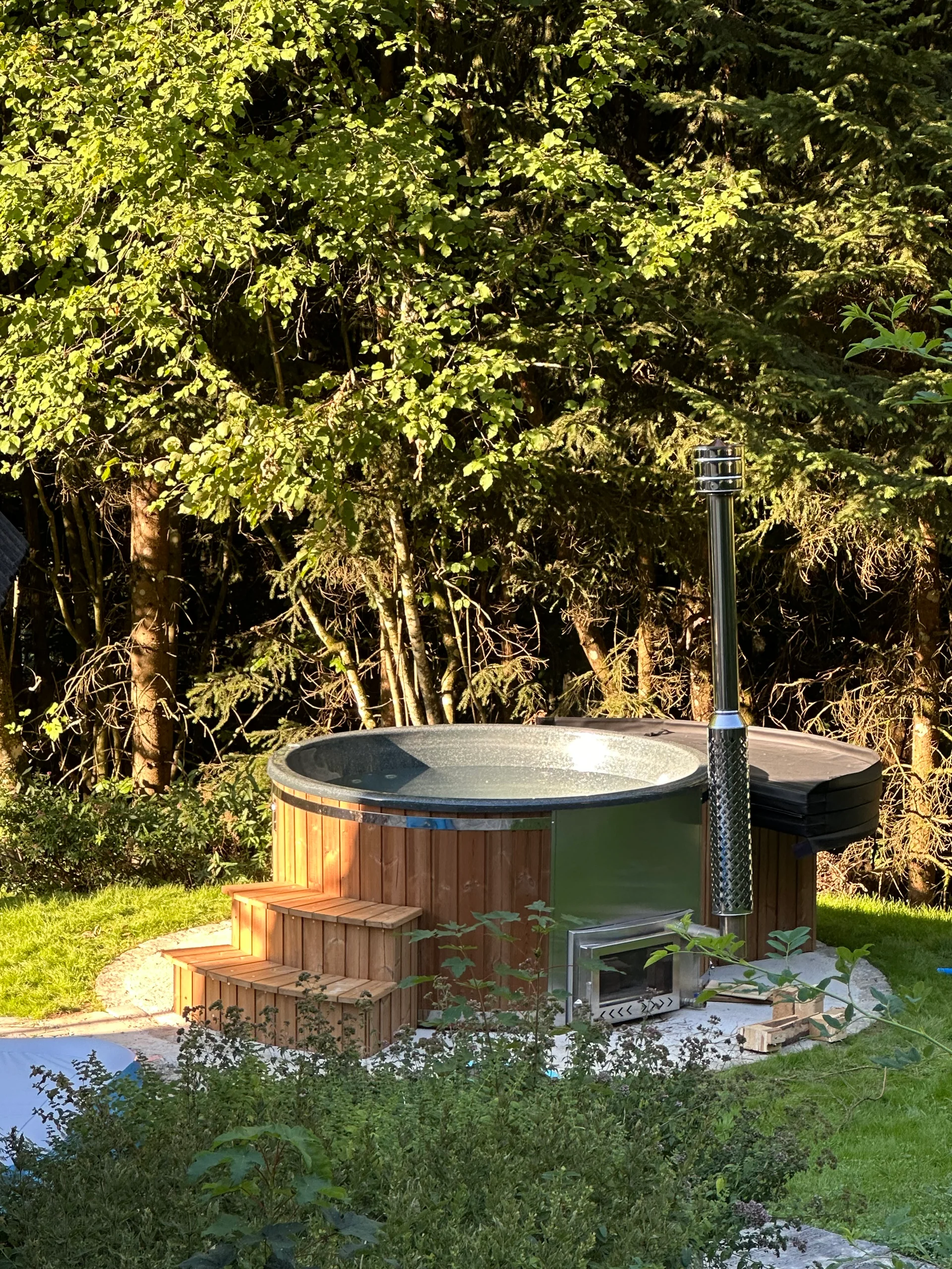
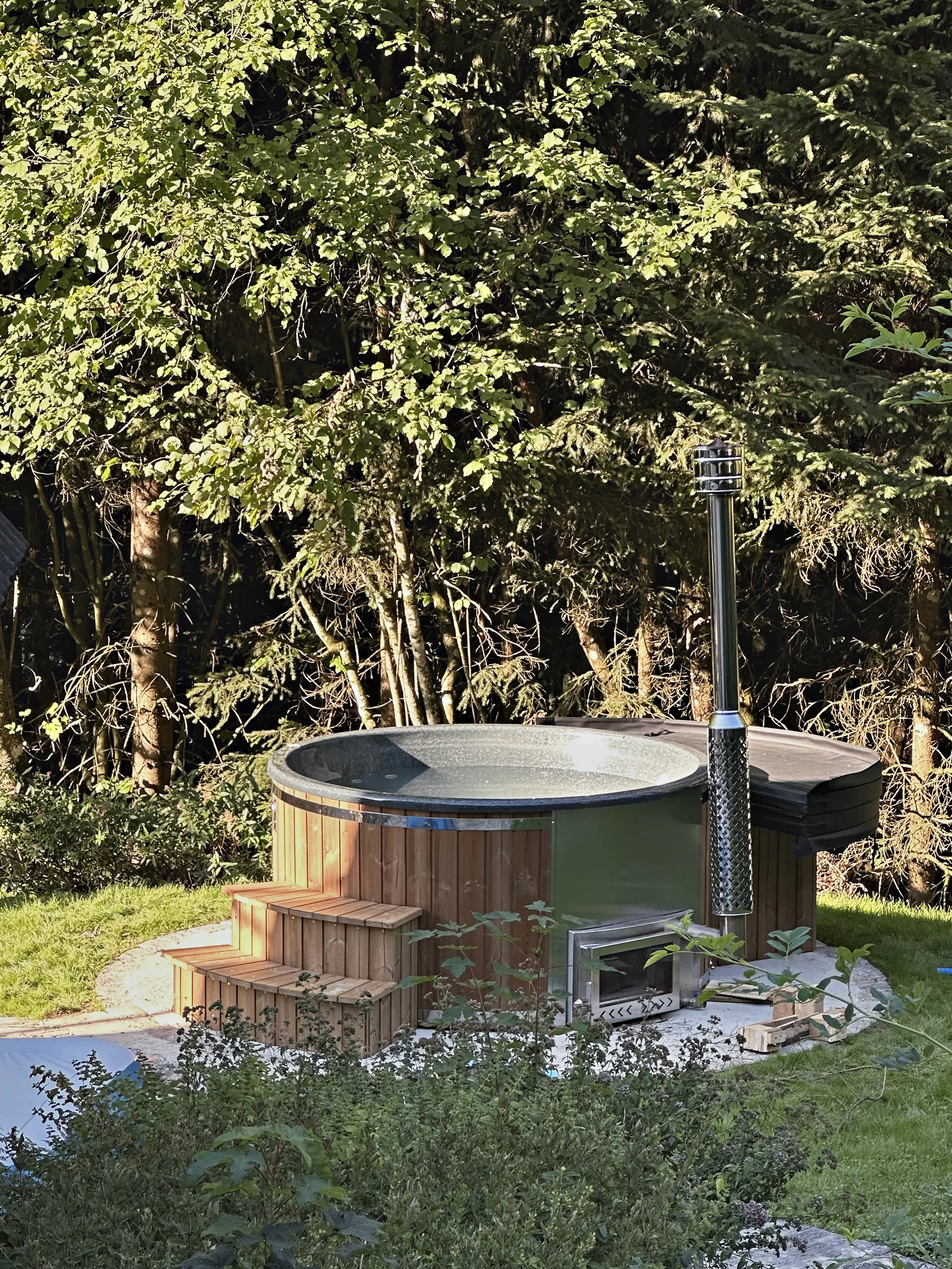
HAUS28-Galerie: HotTub-Fotos, Küche, schönste Bilder nach vorn
- Zwei neue HotTub-Fotos (Garten mit Ofen, Whirlpool vor dem A-Frame); sie
  und das bisherige img_5694 sind an den Look der Profi-Fotos angeglichen
  (Lichter gedämpft, Schatten offen, wärmer, Grün ruhiger). Originale liegen
  unbearbeitet in FOTOS/HAUS28/unbearbeitet (nicht im Repo).
- Erster Blick: A-Frame-Front, HotTub, Wohnbereich, Schlafzimmer 3 unter dem
  Dreiecksfenster, Küche. Die Küche fehlte bisher ganz.
- Aus dem Fotografen-Satz ergänzt: Wohn-/Essbereich, Esstisch, Leseecke,
  gedeckter Terrassentisch, Feuerschale. Raus: zweites Waldbild, Schlafzimmer 1
  doppelt, Tischdeko, Nachttisch. 21 → 25 Fotos.
- Alt-Texte korrigiert (ein Schlafzimmer hieß „Essbereich", die Gartenseite
  „Innenbereich Detail"), Schlafzimmer 1–4 wie auf der Seite, englisch nachgezogen.

diff --git a/data/properties.ts b/data/properties.ts
@@ -163,26 +163,30 @@ export const haus28: PropertyData = {
     thumbnail: "/images/haus28/hero-thumb.webp",
     gallery: [
       { src: "/images/haus28/gallery/haus_28_250523_160.webp", alt: "HAUS28 – A-Frame Frontansicht im Abendlicht" },
-      { src: "/images/haus28/gallery/img_5694.webp", alt: "HAUS28 – Privater Outdoor-Whirlpool im Garten am Waldrand" },
+      { src: "/images/haus28/gallery/hottub_garten.webp", alt: "HAUS28 – Privater HotTub mit Holzofen im Garten" },
       { src: "/images/haus28/gallery/haus_28_250523_455.webp", alt: "HAUS28 – Wohnbereich mit Panoramafenster zum Wald" },
+      { src: "/images/haus28/gallery/haus_28_250523_380.webp", alt: "HAUS28 – Schlafzimmer 3 im Obergeschoss mit Dreiecksfenster" },
+      { src: "/images/haus28/gallery/haus_28_250523_581.webp", alt: "HAUS28 – Küche mit grünen Schränken" },
+      { src: "/images/haus28/gallery/haus_28_250523_478.webp", alt: "HAUS28 – Wohn- und Essbereich unter dem Giebelfenster" },
+      { src: "/images/haus28/gallery/hottub_haus.webp", alt: "HAUS28 – Whirlpool mit Blick auf das A-Frame" },
+      { src: "/images/haus28/gallery/haus_28_250523_730.webp", alt: "HAUS28 – Gartenseite mit Terrasse und Balkon" },
+      { src: "/images/haus28/gallery/haus_28_250523_604.webp", alt: "HAUS28 – Schlafzimmer 1 im Erdgeschoss" },
+      { src: "/images/haus28/gallery/haus_28_250523_647.webp", alt: "HAUS28 – Schlafzimmer 2 mit Terrassenzugang" },
+      { src: "/images/haus28/gallery/haus_28_250523_413.webp", alt: "HAUS28 – Schlafzimmer 4 im Obergeschoss" },
+      { src: "/images/haus28/gallery/haus_28_250523_699.webp", alt: "HAUS28 – Badezimmer mit blauen Fliesen" },
+      { src: "/images/haus28/gallery/haus_28_250523_264.webp", alt: "HAUS28 – Zweites Bad mit Dusche" },
       { src: "/images/haus28/gallery/haus_28_250523_556.webp", alt: "HAUS28 – Offene Wohn- und Küchenfläche" },
+      { src: "/images/haus28/gallery/haus_28_250523_442.webp", alt: "HAUS28 – Esstisch am Panoramafenster" },
+      { src: "/images/haus28/gallery/haus_28_250523_386.webp", alt: "HAUS28 – Leseecke am Dreiecksfenster" },
+      { src: "/images/haus28/gallery/img_5694.webp", alt: "HAUS28 – Privater Outdoor-Whirlpool im Garten am Waldrand" },
+      { src: "/images/haus28/gallery/haus_28_250523_721.webp", alt: "HAUS28 – Gedeckter Tisch auf der Terrasse" },
+      { src: "/images/haus28/gallery/haus_28_250523_745.webp", alt: "HAUS28 – Feuerschale im Garten" },
       { src: "/images/haus28/gallery/haus_28_250523_165.webp", alt: "HAUS28 – Außenansicht durch den Wald" },
-      { src: "/images/haus28/gallery/haus_28_250523_380.webp", alt: "HAUS28 – Schlafbereich OG mit Dreiecksfenster" },
-      { src: "/images/haus28/gallery/haus_28_250523_413.webp", alt: "HAUS28 – Essbereich" },
-      { src: "/images/haus28/gallery/haus_28_250523_604.webp", alt: "HAUS28 – Schlafzimmer EG" },
-      { src: "/images/haus28/gallery/haus_28_250523_625.webp", alt: "HAUS28 – Zweites Schlafzimmer" },
-      { src: "/images/haus28/gallery/haus_28_250523_647.webp", alt: "HAUS28 – Schlafzimmer mit Terrassenzugang" },
-      { src: "/images/haus28/gallery/haus_28_250523_699.webp", alt: "HAUS28 – Badezimmer" },
+      { src: "/images/haus28/gallery/haus_28_250523_175.webp", alt: "HAUS28 – Grundstück von oben" },
       { src: "/images/haus28/gallery/haus_28_250523_522.webp", alt: "HAUS28 – Terrasse von oben" },
-      { src: "/images/haus28/gallery/haus_28_250523_303.webp", alt: "HAUS28 – Wohnraum" },
-      { src: "/images/haus28/gallery/haus_28_250523_433.webp", alt: "HAUS28 – Küchenbereich" },
-      { src: "/images/haus28/gallery/haus_28_250523_730.webp", alt: "HAUS28 – Innenbereich Detail" },
       { src: "/images/haus28/gallery/haus_28_250523_113.webp", alt: "HAUS28 – Eingang Hausfront" },
-      { src: "/images/haus28/gallery/haus_28_250523_175.webp", alt: "HAUS28 – Außenbereich mit Naturblick" },
-      { src: "/images/haus28/gallery/haus_28_250523_207.webp", alt: "HAUS28 – Eingangsbereich" },
-      { src: "/images/haus28/gallery/haus_28_250523_264.webp", alt: "HAUS28 – Detailansicht Architektur" },
-      { src: "/images/haus28/gallery/haus_28_250523_591.webp", alt: "HAUS28 – Detailansicht Innen" },
-      { src: "/images/haus28/gallery/haus_28_250523_147.webp", alt: "HAUS28 – A-Frame im Grünen, Sommeransicht" },
+      { src: "/images/haus28/gallery/haus_28_250523_207.webp", alt: "HAUS28 – Eingangsbereich mit Treppe" },
+      { src: "/images/haus28/gallery/haus_28_250523_433.webp", alt: "HAUS28 – Kaffeestation in der Küche" },
     ],
   },
   faqs: [

diff --git a/data/properties.i18n.ts b/data/properties.i18n.ts
@@ -90,22 +90,26 @@ const galleryAltEn: Record<string, string> = {
   "HAUS28 – Wohnbereich mit Panoramafenster zum Wald": "HAUS28 – Living area with panoramic window facing the forest",
   "HAUS28 – Offene Wohn- und Küchenfläche": "HAUS28 – Open-plan living and kitchen area",
   "HAUS28 – Außenansicht durch den Wald": "HAUS28 – Exterior view through the forest",
-  "HAUS28 – Schlafbereich OG mit Dreiecksfenster": "HAUS28 – Upstairs sleeping area with triangular window",
-  "HAUS28 – Essbereich": "HAUS28 – Dining area",
-  "HAUS28 – Schlafzimmer EG": "HAUS28 – Ground-floor bedroom",
-  "HAUS28 – Zweites Schlafzimmer": "HAUS28 – Second bedroom",
-  "HAUS28 – Schlafzimmer mit Terrassenzugang": "HAUS28 – Bedroom with terrace access",
-  "HAUS28 – Badezimmer": "HAUS28 – Bathroom",
   "HAUS28 – Terrasse von oben": "HAUS28 – Terrace seen from above",
-  "HAUS28 – Wohnraum": "HAUS28 – Living space",
-  "HAUS28 – Küchenbereich": "HAUS28 – Kitchen area",
-  "HAUS28 – Innenbereich Detail": "HAUS28 – Interior detail",
   "HAUS28 – Eingang Hausfront": "HAUS28 – Entrance and house front",
-  "HAUS28 – Außenbereich mit Naturblick": "HAUS28 – Outdoor area with views of nature",
-  "HAUS28 – Eingangsbereich": "HAUS28 – Entrance area",
-  "HAUS28 – Detailansicht Architektur": "HAUS28 – Architectural detail",
-  "HAUS28 – Detailansicht Innen": "HAUS28 – Interior detail view",
-  "HAUS28 – A-Frame im Grünen, Sommeransicht": "HAUS28 – A-frame in the greenery, summer view",
+  "HAUS28 – Privater HotTub mit Holzofen im Garten": "HAUS28 – Private wood-fired hot tub in the garden",
+  "HAUS28 – Schlafzimmer 3 im Obergeschoss mit Dreiecksfenster": "HAUS28 – Bedroom 3 upstairs with triangular window",
+  "HAUS28 – Küche mit grünen Schränken": "HAUS28 – Kitchen with green cabinets",
+  "HAUS28 – Wohn- und Essbereich unter dem Giebelfenster": "HAUS28 – Living and dining area beneath the gable window",
+  "HAUS28 – Whirlpool mit Blick auf das A-Frame": "HAUS28 – Hot tub with a view of the A-frame",
+  "HAUS28 – Gartenseite mit Terrasse und Balkon": "HAUS28 – Garden side with terrace and balcony",
+  "HAUS28 – Schlafzimmer 1 im Erdgeschoss": "HAUS28 – Bedroom 1 on the ground floor",
+  "HAUS28 – Schlafzimmer 2 mit Terrassenzugang": "HAUS28 – Bedroom 2 with terrace access",
+  "HAUS28 – Schlafzimmer 4 im Obergeschoss": "HAUS28 – Bedroom 4 upstairs",
+  "HAUS28 – Badezimmer mit blauen Fliesen": "HAUS28 – Bathroom with blue tiles",
+  "HAUS28 – Zweites Bad mit Dusche": "HAUS28 – Second bathroom with shower",
+  "HAUS28 – Esstisch am Panoramafenster": "HAUS28 – Dining table by the panoramic window",
+  "HAUS28 – Leseecke am Dreiecksfenster": "HAUS28 – Reading corner by the triangular window",
+  "HAUS28 – Gedeckter Tisch auf der Terrasse": "HAUS28 – Table set on the terrace",
+  "HAUS28 – Feuerschale im Garten": "HAUS28 – Fire bowl in the garden",
+  "HAUS28 – Grundstück von oben": "HAUS28 – The property from above",
+  "HAUS28 – Eingangsbereich mit Treppe": "HAUS28 – Entrance area with staircase",
+  "HAUS28 – Kaffeestation in der Küche": "HAUS28 – Coffee station in the kitchen",
   // Haus Schönblick – exterior & house gallery
   "Haus Schönblick – Außenansicht": "Haus Schönblick – Exterior view",
   "Haus Schönblick – Eingang und Umgebung": "Haus Schönblick – Entrance and surroundings",
